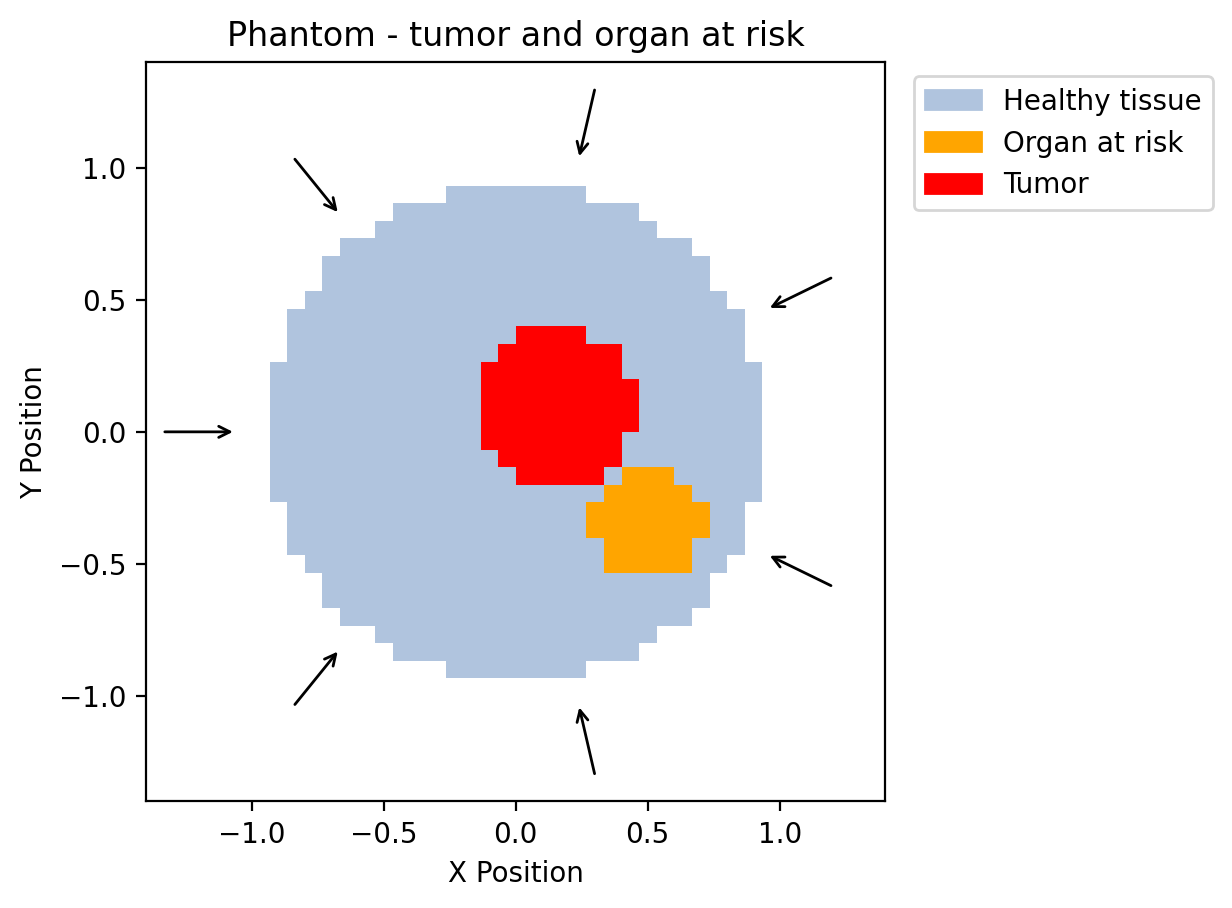
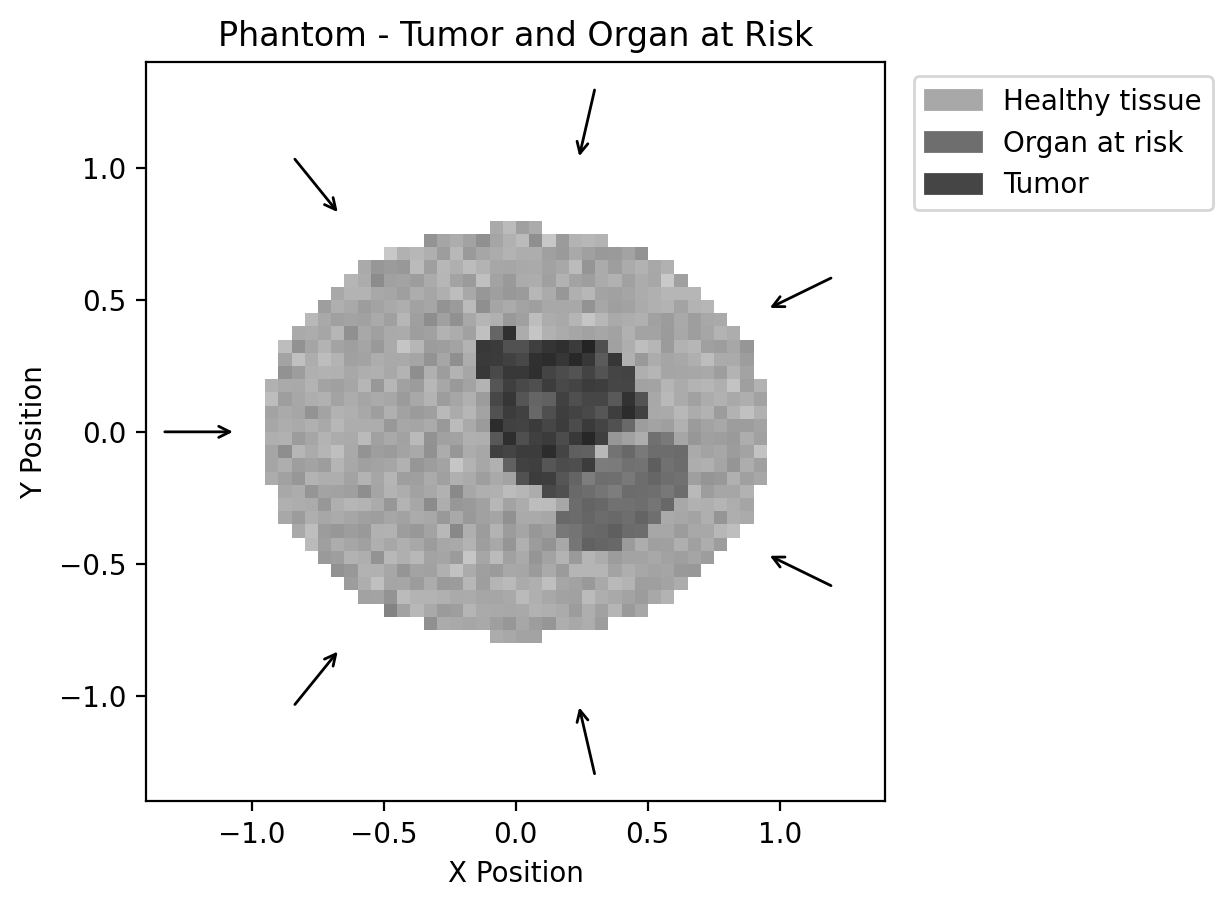
modifying codes and improving figures

Changed region(s): [[0.2159, 0.185, 0.6477, 0.7709], [0.1851, 0.0, 0.6786, 0.0617], [0.7403, 0.0925, 0.8019, 0.2159]]

diff --git a/radiotherapy_optimization.py b/radiotherapy_optimization.py
@@ -16,9 +16,10 @@ from matplotlib.colors import ListedColormap
 
 FIG = Path(__file__).parent / "figures" 
 
-N = 30                                # grid size - the slice is a 30 x 30 grid of points
-TUMOR_C = np.array([0.15, 0.10]);  TUMOR_R = 0.32   # tumor center (x, y) and radius
-OAR_C   = np.array([0.52, -0.35]); OAR_R   = 0.22   # organ center and radius - placed close to the tumor on purpose
+N = 40                                # grid size - the slice is a 40 x 40 grid of points
+TUMOR_C = np.array([0.15, 0.10]);  TUMOR_R = 0.30   # tumor center (x, y) and radius
+OAR_C = TUMOR_C + 0.44 * np.array([0.635, -0.772])
+OAR_RADII = (0.30, 0.16);  OAR_ROT = 39.0
 ANGLES_DEG = [0, 51, 103, 154, 206, 257, 309]       # the 7 beam directions, in degrees
 BEAMLET_CENTERS = np.linspace(-0.9, 0.9, 15)        # positions of the 15 beamlets in each direction
 STRIP_W = BEAMLET_CENTERS[1] - BEAMLET_CENTERS[0]   # beamlet width, measured from the centers - do not type a rounded value, it changes the results
@@ -35,15 +36,33 @@ ys = np.linspace(-1, 1, N)
 XX, YY = np.meshgrid(xs, ys)
 pts = np.column_stack([XX.ravel(), YY.ravel()])
 
-# Worked example: a point is in the body if its
-# distance from (0, 0) is at most 0.98.
-body = np.hypot(pts[:, 0], pts[:, 1]) <= 0.98
+# Body: an ellipse — wider (0.99) than tall (0.80),
+# like a torso cross-section.
+body = (pts[:, 0] / 0.99) ** 2 + (pts[:, 1] / 0.80) ** 2 <= 1
 
-tumor = (np.hypot(pts[:, 0] - TUMOR_C[0], pts[:, 1] - TUMOR_C[1]) <= TUMOR_R) & body 
+# Tumor: a blob. Its radius wobbles with direction —
+# two sine waves over the angle around the center —
+# so the edge is irregular, like a real mass.
+dx = pts[:, 0] - TUMOR_C[0]
+dy = pts[:, 1] - TUMOR_C[1]
+r = np.hypot(dx, dy)
+theta = np.arctan2(dy, dx)
+r_eff = TUMOR_R * (1 + 0.16 * np.sin(3 * theta + 0.7)
+                     + 0.10 * np.sin(5 * theta + 2.1))
+tumor = (r <= r_eff) & body
 
-oar = (np.hypot(pts[:, 0] - OAR_C[0], pts[:, 1] - OAR_C[1]) <= OAR_R) & body & ~tumor
+# Organ: an elongated ellipse, tilted 39 degrees.
+# u, v are the point's coordinates in the organ's
+# own rotated frame.
+dxo = pts[:, 0] - OAR_C[0]
+dyo = pts[:, 1] - OAR_C[1]
+rot = np.deg2rad(OAR_ROT)
+u = dxo * np.cos(rot) + dyo * np.sin(rot)
+v = -dxo * np.sin(rot) + dyo * np.cos(rot)
+oar = ((u / OAR_RADII[0]) ** 2 + (v / OAR_RADII[1]) ** 2 <= 1) & body & ~tumor
 
 healthy = body & ~tumor & ~oar
+print(body.sum(), tumor.sum(), oar.sum(), healthy.sum())
 
 # ---------- 3. Dose matrix ----------
 idx_body = np.where(body)[0]
@@ -81,45 +100,42 @@ h_rows = [row_of[i] for i in np.where(healthy)[0]]
 A_T, A_O, A_H = A[t_rows], A[o_rows], A[h_rows]
 
 
-# Building the picture grid
+# Building the anatomy grid (grayscale, like a scan)
+img = np.ones((N, N))
+img[healthy.reshape(N, N)] = 0.66
+img[oar.reshape(N, N)] = 0.43
+img[tumor.reshape(N, N)] = 0.27
 
-img = np.zeros((N,N))
+# Texture: seeded grain, a different amount per tissue
+rng = np.random.default_rng(7)
+noise = rng.normal(0, 1, img.shape)
+tex = img.copy()
+tex[healthy.reshape(N, N)] += 0.045 * noise[healthy.reshape(N, N)]
+tex[oar.reshape(N, N)] += 0.030 * noise[oar.reshape(N, N)]
+tex[tumor.reshape(N, N)] += 0.055 * noise[tumor.reshape(N, N)]
+img = np.clip(tex, 0, 1)
 
-img[body.reshape(N,N)] = 0.2
-img[healthy.reshape(N,N)] = 0.4
-img[oar.reshape(N,N)] = 0.7
-img[tumor.reshape(N,N)] = 1.0
-
-# Plottting picture grid
-cmap_phantom = ListedColormap(["white", "lightsteelblue", "orange", "red"])
+# Plotting the anatomy grid
 fig, ax = plt.subplots()
-ax.imshow(img, cmap=cmap_phantom, extent=(-1, 1, -1, 1), origin="lower")
+ax.imshow(img, cmap="gray", vmin=0, vmax=1, extent=(-1, 1, -1, 1), origin="lower")
 
-# Loop over ANGLES_DEG; for each, the direction is the (cos, sin) pair 
 for a_deg in ANGLES_DEG:
     d = np.array([np.cos(np.deg2rad(a_deg)), np.sin(np.deg2rad(a_deg))])
     ax.annotate("", xy=-1.05 * d, xytext=-1.35 * d, arrowprops=dict(arrowstyle="->"))
 
-
-# Widen frame so that the arrows are not cut off
 ax.set_xlim(-1.4, 1.4)
 ax.set_ylim(-1.4, 1.4)
 
-# Legend: add colored squares for tumor, organ at risk, and healthy tissue
 legend_handles = [
-    Patch(color="lightsteelblue", label="Healthy tissue"),
-    Patch(color="orange", label="Organ at risk"),
-    Patch(color="red", label="Tumor"),
+    Patch(color=(0.66, 0.66, 0.66), label="Healthy tissue"),
+    Patch(color=(0.43, 0.43, 0.43), label="Organ at risk"),
+    Patch(color=(0.27, 0.27, 0.27), label="Tumor"),
 ]
-
 ax.legend(handles=legend_handles, loc="upper left", bbox_to_anchor=(1.02, 1.0))
 
-# Label x and y axes and add a title
 ax.set_xlabel("X Position")
 ax.set_ylabel("Y Position")
-ax.set_title("Phantom - tumor and organ at risk")
-
-# save figure
+ax.set_title("Phantom - Tumor and Organ at Risk")
 
 fig.savefig(FIG / "fig1_phantom.png", dpi=200, bbox_inches="tight")
 
@@ -190,7 +206,7 @@ print("tumor voxels at prescription:", n_tum_at_rx, "of", len(t_rows))
 
 # Shadow price of the organ limit, two ways
 duals = res.ineqlin.marginals[len(t_rows):]
-price_dual = float(duals.min())
+price_dual = float(duals.sum())
 r_lo = solve_lp(D_RX, 29.4)
 r_hi = solve_lp(D_RX, 30.6)
 price_fd = (r_hi.fun - r_lo.fun) / 1.2
@@ -208,8 +224,8 @@ def dose_grid(x):
 # Dose heatmaps
 
 fig, axes = plt.subplots(1, 2, figsize=(11,5))
-axes[0].imshow(dose_grid(x_base), vmin=0, vmax=84, cmap="inferno", extent=(-1, 1, -1, 1), origin="lower")
-im = axes[1].imshow(dose_grid(x_opt), vmin=0, vmax=84, cmap="inferno", extent=(-1, 1, -1, 1), origin="lower")
+axes[0].imshow(dose_grid(x_base), vmin=0, vmax=90, cmap="inferno", extent=(-1, 1, -1, 1), origin="lower")
+im = axes[1].imshow(dose_grid(x_opt), vmin=0, vmax=90, cmap="inferno", extent=(-1, 1, -1, 1), origin="lower")
 
 
 # Outline the tumor (white) and the organ (cyan) on both maps

diff --git a/report/results_table.md b/report/results_table.md
@@ -1,11 +1,11 @@
 | Metric | Baseline | Optimized |
 |---|---|---|
 | Tumor min dose (Gy) | 60.0 | 60.0 |
-| Tumor mean dose (Gy) | 60.4 | 61.9 |
+| Tumor mean dose (Gy) | 60.4 | 74.5 |
 | Tumor coverage >= 57 Gy (%) | 100.0 | 100.0 |
-| Healthy mean dose (Gy) | 62.7 | 21.8 |
-| Healthy max dose (Gy) | 65.3 | 80.5 |
-| Organ mean dose (Gy) | 62.2 | 5.5 |
-| Organ max dose (Gy) | 63.8 | 30.0 |
-| Organ limit violations | 32 | 0 |
-| Beamlets used (of 105) | 105 | 22 |
+| Healthy mean dose (Gy) | 62.5 | 24.1 |
+| Healthy max dose (Gy) | 65.1 | 88.4 |
+| Organ mean dose (Gy) | 61.4 | 7.8 |
+| Organ max dose (Gy) | 62.5 | 30.0 |
+| Organ limit violations | 59 | 0 |
+| Beamlets used (of 105) | 105 | 21 |
